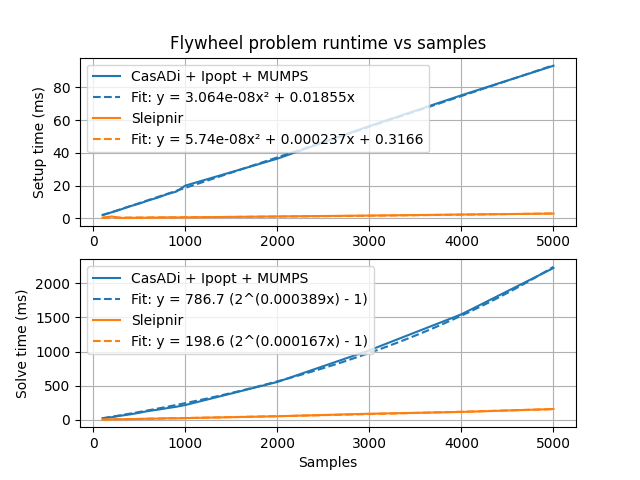
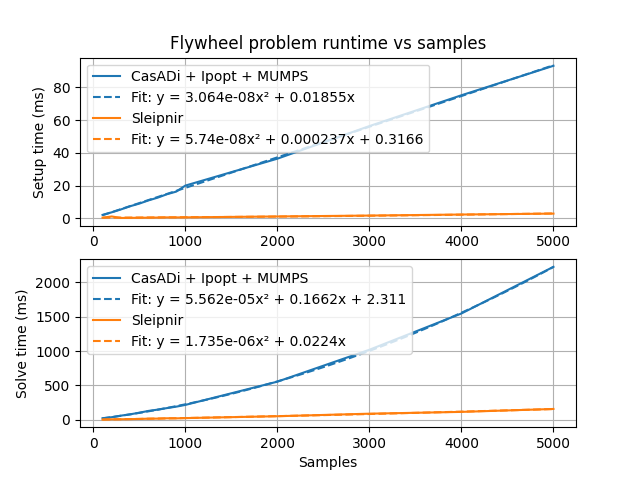
Use quadratics in all benchmark plots (#701)

diff --git a/tools/plot_scalability_results.py b/tools/plot_scalability_results.py
@@ -53,23 +53,6 @@ def plot_poly_fit(ax, x, y, func, bases, color):
     )
 
 
-def plot_exp2_fit(ax, x, y, color):
-    def exp2(x, a, b):
-        return a * (np.exp2(b * x) - 1)
-
-    # Fit exponential y = c(2ᵇˣ − 1) to x-y data
-    coeffs = curve_fit(exp2, x, y, p0=(1, 1e-6))[0]
-
-    resampled_x = np.arange(x[0], x[-1] + 100, 100)
-    ax.plot(
-        resampled_x,
-        exp2(resampled_x, *coeffs),
-        color=color,
-        label=f"Fit: y = {coeffs[0]:.4g} (2^({coeffs[1]:.4g}x) - 1)",
-        linestyle="--",
-    )
-
-
 def main():
     parser = argparse.ArgumentParser(
         description="Runs all formatting tasks on the code base. This should be invoked from a directory within the project."
@@ -163,10 +146,12 @@ def main():
 
     for i in range(len(samples)):
         ax2.plot(samples[i], solve_times[i], label=args.labels[i])
-        plot_exp2_fit(
+        plot_poly_fit(
             ax2,
             samples[i],
             solve_times[i],
+            lambda x, a, b, c: a * x**2 + b * x + c,
+            ["x²", "x", ""],
             color=colors[i],
         )
 
